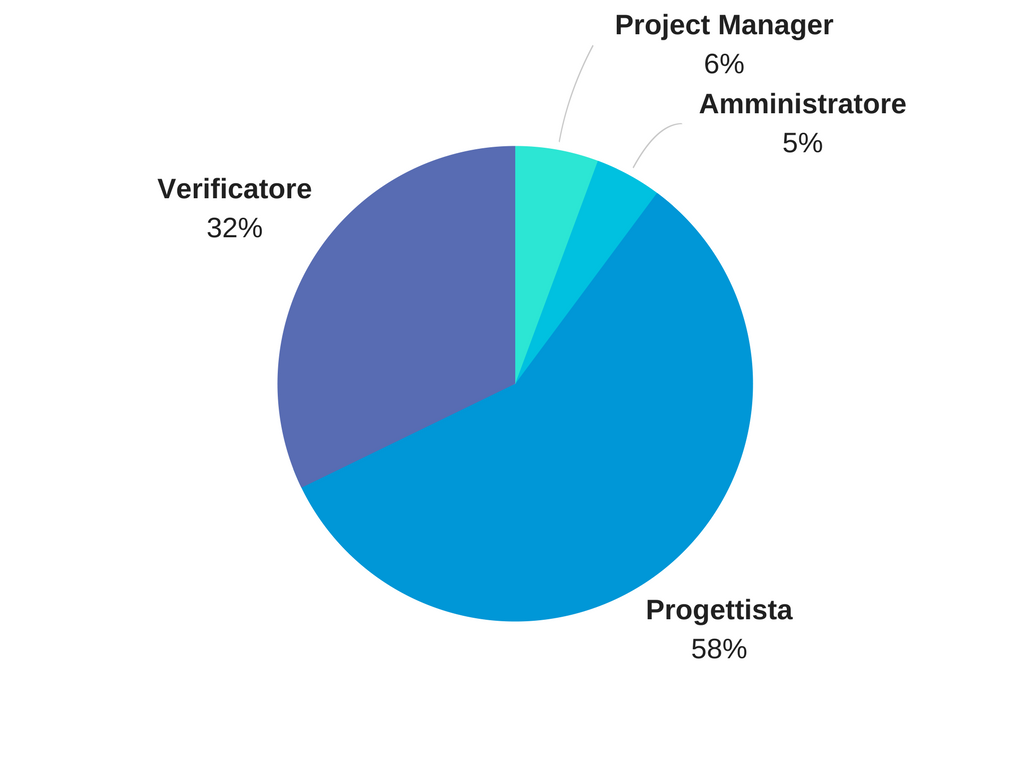
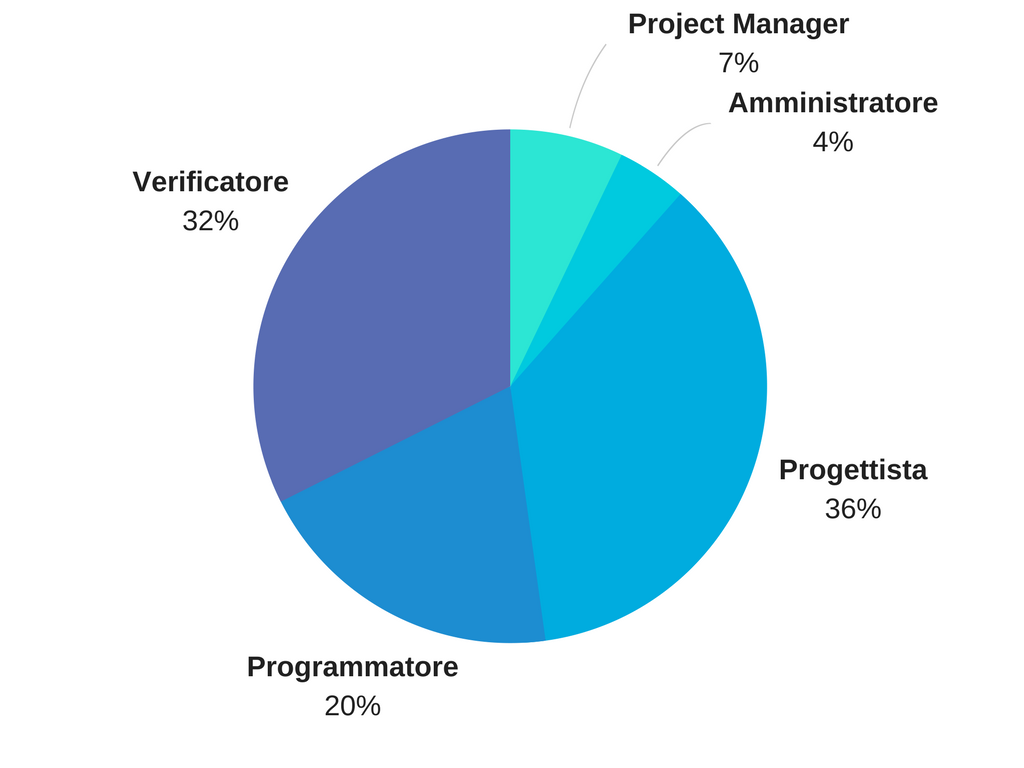
[PDP] aggiornata pianificazione e monte ore. MANCA ANCORA CONSUNTIVO

diff --git a/Docs/RP/PianoDiProgetto/Res/Sezioni/Preventivo.tex b/Docs/RP/PianoDiProgetto/Res/Sezioni/Preventivo.tex
@@ -164,19 +164,19 @@
 						\hlineB{3}
 						\thead{Nominativo} &\thead{Pm} &\thead{Am} &\thead{An}&\thead{Pt}&\thead{Pr}&\thead{Ve}&\thead{Ore totali}\\
 						\hlineB{3}
-						Paolo Eccher      & 6 & - & - & 14 & - & 6 & 26 \\
+						Paolo Eccher      & 5 & - & - & 4 & 12 & 6 & 27 \\
 						\hline
-						Alberto Gallinaro & - & 3 & - & 17 & - & 5 & 25 \\
+						Alberto Gallinaro & - & 3 & - & 8 & 10 & 5 & 26 \\
 						\hline
-						Giuseppe Merlino  & - & - & - & 15 & - & 10 & 25 \\
+						Giuseppe Merlino  & - & - & - & 10 & 6 & 10 & 26 \\
 						\hline
 						Elia Montecchio   & 3 & - & - & 12 & - & 10 & 25 \\
 						\hline
-						Lisa Parma        & 1 & - & - & 16 & - & 9 & 26 \\
+						Lisa Parma        & 2 & - & - & 16 & - & 9 & 27 \\
 						\hline
-						Francesco Parolini& - & 5 & - & 10 & - & 10 & 25 \\
+						Francesco Parolini& - & 5 & - & 8 & 8 & 4 & 25 \\
 						\hline
-						Davide Zago       & - & - & - & 18 & - & 7 & 25 \\
+						Davide Zago       & 3 & - & - & 8 & - & 15 & 26 \\
 						\hline
 						\textbf{Ore totali ruolo}  & \textbf{10} & \textbf{8} & \textbf{-} & \textbf{102} & \textbf{-} & \textbf{57} & \textbf{177} \\
 						\hlineB{3}
@@ -202,19 +202,19 @@
 				
 				\thead{Ruolo} &\thead{Ore previste} &\thead{Costo}\\
 				\hlineB{3}			
-				Project Manager & 10 & 300,00\euro \\
+				Project Manager & 13 & 390,00\euro \\
 				\hline
 				Amministratore& 8 & 160,00\euro \\
 				\hline
 				Analista & - & 0\euro \\
 				\hline
-				Progettista & 102 & 2244,00\euro \\
+				Progettista & 66 & 1452,00\euro \\
 				\hline
-				Programmatore & - & 0\euro \\
+				Programmatore & 36 & 540\euro \\
 				\hline
-				Verificatore & 57 & 855,00\euro \\
+				Verificatore & 59 & 885,00\euro \\
 				\hline
-				\textbf{Ore totali} & \textbf{177} & \textbf{3.559.00 \euro} \\
+				\textbf{Ore totali} & \textbf{177} & \textbf{3.427,00 \euro} \\
 				\hlineB{3}
 			\end{tabular}
 			\caption{Costi per ruolo - \textit{Progettazione Architetturale}}
@@ -463,21 +463,22 @@
 				\hlineB{3}
 				\thead{Nominativo} &\thead{Pm} &\thead{Am} &\thead{An}&\thead{Pt}&\thead{Pr}&\thead{Ve}&\thead{Ore totali}\\
 				\hlineB{3}
-				Paolo Eccher 		& 6  & 6 & 16 & 44 & 10 & 45 & 127 \\
+				Paolo Eccher 		& 5 & 6 & 16 & 34 & 22 & 45 & 128
+				 \\
 				\hline
-				Alberto Gallinaro 	& 11 & 6 & 20 & 43 & 18 & 29 & 127 \\
+				Alberto Gallinaro 	& 11 & 6 & 20 & 34 & 28 & 29 & 128 \\
 				\hline
-				Giuseppe Merlino 	& 13 & 6 & 6  & 22 & 28 & 52 & 127 \\
+				Giuseppe Merlino 	& 13 & 6 & 6  & 17 & 34 & 52 & 128 \\
 				\hline
 				Elia Montecchio 	& 5 & 3 & 15 & 24 & 13 & 68 & 128 \\
 				\hline
-				Lisa Parma 			& 7 & 9 & 12 & 46 & 13 & 40 & 127 \\
+				Lisa Parma 			& 8 & 9 & 12 & 46 & 13 & 40 & 128 \\
 				\hline
-				Francesco Parolini 	& 19 & 9 & 2 & 34 & 18 & 46 & 128 \\
+				Francesco Parolini 	& 19 & 9 & 2 & 32 & 26 & 40 & 128 \\
 				\hline
-				Davide Zago 		& 17 & 6 & 13 & 32 & 20 & 40 & 128 \\
+				Davide Zago 		& 20 & 6 & 13 & 22 & 20 & 48 & 129 \\
 				\hline
-				\textbf{Ore totali ruolo}  & \textbf{78} & \textbf{45} & \textbf{84} & \textbf{245} & \textbf{120} & \textbf{320} & \textbf{892} \\
+				\textbf{Ore totali ruolo}  & \textbf{81} & \textbf{45} & \textbf{84} & \textbf{209} & \textbf{156} & \textbf{322} & \textbf{897} \\
 				\hlineB{3}
 			\end{tabular}
 			\caption{Suddivisione del lavoro - Investimento totale }
@@ -513,21 +514,21 @@
 					\hlineB{3}
 					\thead{Nominativo} &\thead{Pm} &\thead{Am} &\thead{An}&\thead{Pt}&\thead{Pr}&\thead{Ve}&\thead{Ore totali}\\
 					\hlineB{3}
-					Paolo Eccher       & 6 & 3 & 3 & 44 & 10 & 39 & 105 \\
+					Paolo Eccher       & 5 & 3 & 3 & 34 & 22 & 39 & 106 \\
 					\hline
-					Alberto Gallinaro  & 11 & 6 & 4 & 43 & 18 & 23 & 105 \\
+					Alberto Gallinaro  & 11 & 6 & 4 & 34 & 28 & 23 & 106 \\
 					\hline
-					Giuseppe Merlino   & 0 & 6 & 4 & 22 & 28 & 45 & 105 \\
+					Giuseppe Merlino   & 0 & 6 & 4 & 17 & 34 & 45 & 106 \\
 					\hline
 					Elia Montecchio    & 5 & 0 & 3 & 24 & 13 & 60 & 105 \\
 					\hline
-					Lisa Parma         & 7 & 3 & 0 & 46 & 13 & 36 & 105 \\
+					Lisa Parma         & 8 & 3 & 0 & 46 & 13 & 36 & 106 \\
 					\hline
-					Francesco Parolini& 6 & 5 & 2 & 34 & 18 & 40 & 105 \\
+					Francesco Parolini& 6 & 5 & 2 & 32 & 26 & 34 & 105 \\
 					\hline
-					Davide Zago        & 12 & 4 & 3 & 32 & 20 & 34 & 105 \\
+					Davide Zago        & 15 & 4 & 3 & 22 & 22 & 42 & 106 \\
 					\hline
-					\textbf{Ore totali ruolo}  & \textbf{47} & \textbf{27} & \textbf{19} & \textbf{245} & \textbf{120} & \textbf{277} & \textbf{735} \\
+					\textbf{Ore totali ruolo}  & \textbf{50} & \textbf{27} & \textbf{19} & \textbf{209} & \textbf{156} & \textbf{279} & \textbf{740} \\
 					\hlineB{3}
 				\end{tabular}
 				\caption{Suddivisione del lavoro - Ore rendicontate }
@@ -552,19 +553,19 @@
 					
 					\thead{Ruolo} &\thead{Ore previste} &\thead{Costo}\\
 					\hlineB{3}			
-					Project Manager & 47 & 1.410,00\euro \\
+					Project Manager & 50 & 1.500,00\euro \\
 					\hline
 					Amministratore& 27 & 540,00\euro \\
 					\hline
 					Analista & 19 & 475,0\euro \\
 					\hline
-					Progettista & 245 & 5.390,00\euro \\
+					Progettista & 209 & 4.598,00\euro \\
 					\hline
-					Programmatore & 120 & 1.800,00\euro \\
+					Programmatore & 156 & 2.340,00\euro \\
 					\hline
-					Verificatore & 277 & 4.155,00\euro \\
+					Verificatore & 279 & 4.185,00\euro \\
 					\hline
-					\textbf{Ore totali} & \textbf{735} & \textbf{13.770,00 \euro} \\
+					\textbf{Ore totali} & \textbf{740} & \textbf{13.638,00 \euro} \\
 					\hlineB{3}
 				\end{tabular}
 				\caption{Costi per ruolo - Ore rendicontate}
@@ -583,4 +584,4 @@
 			
 			\subsubsection{Conclusioni}
 			
-			Il costo totale preventivato per il progetto è 13.770,00 \euro.
+			Il costo totale preventivato per il progetto è 13.638,00 \euro.

diff --git a/Docs/RP/PianoDiProgetto/Res/Sezioni/Pianificazione.tex b/Docs/RP/PianoDiProgetto/Res/Sezioni/Pianificazione.tex
@@ -61,9 +61,7 @@ Il gruppo utilizza questo periodo per lo studio personale al fine di sostenere g
     \textbf{Periodo:} da 2018-02-21 a 2018-03-07 \Spazio
     Inizia al termine dell'\emph{Analisi dei Requisiti di Dettaglio} e termina con la consegna del materiale in ingresso alla \emph{Revisione di Progettazione}.
     \begin{itemize}
-    	\item \textbf{Technology Baseline:} viene redatto il documento \emph{Technology Baseline } dove vengono presentate le tecnologie selezionate per lo sviluppo del prodotto e ne viene dimostrata l'adeguatezza;
-    	\textcolor{red}{fix}
-    	\item \textbf{Proof of Concept:} viene sviluppato un Proof of Concept atto a dimostrare l'architettura fondamentale del nostro prodotto e le sue funzionionalità principali;
+    	\item \textbf{Technology Baseline:} le competenze acquisite durante lo studio individuale vengono impiegate per creare un \textit{Proof of Concept}, che conterrà le principali funzionalità offerte dal nostro prodotto.
     	\item \textbf{Incremento e Verifica:} vengono aggiornati e verificati, se necessario, i documenti già redatti.	
     \end{itemize}
 \subsubsection{Gantt}
@@ -77,7 +75,7 @@ Il gruppo utilizza questo periodo per lo studio personale al fine di sostenere g
     \textbf{Periodo:} da 2018-03-20 a 2018-03-27\Spazio
     Inizia dopo la consegna del materiale in ingresso alla \emph{Revisione di Progettazione} e termina con l'inizio dell'attività di codifica.
     \begin{itemize}
-    	\item \textbf{Product Baseline:} viene redatto il documento \emph{Product Baseline} il quale presenta l'\gl{architettura} di base del prodotto mostrandone la coerenza con quanto mostrato nel documento \emph{Technology Baseline v1.0.0};
+    	\item \textbf{Product Baseline:} viene redatto il documento \emph{Product Baseline} il quale presenta l'\gl{architettura} di base del prodotto mostrandone la coerenza con quanto raggiunto nel \emph{Proof of Concept};
     	\item \textbf{Incremento e Verifica:} vengono aggiornati e verificati,se necessario, i documenti già redatti.
     \end{itemize}
 \subsubsection{Gantt}
@@ -91,7 +89,7 @@ Il gruppo utilizza questo periodo per lo studio personale al fine di sostenere g
     \textbf{Periodo:} da 2018-03-27 a 2018-04-12\Spazio
     Inizia al termine dell'attività di \emph{Progettazione di Dettaglio} e termina con la consegna del materiale in ingresso alla \emph{Revisione di Qualifica}.
     \begin{itemize}
-    	\item \textbf{Codifica del Prodotto:} viene sviluppata una versione funzionante del prodotto attraverso due cicli incrementali;
+    	\item \textbf{Codifica del Prodotto:} viene sviluppata una versione funzionante del prodotto attraverso due cicli incrementali partendo dal \textit{Proof of Concept} realizzato in precedenza;
     	\item \textbf{Manuali:} vengono redatti i manuali necessari per aiutare l'utente nell'utilizzo del software;
     	\item \textbf{Incremento e Verifica:} vengono aggiornati e verificati, se necessario, i documenti già redatti.
     \end{itemize}
